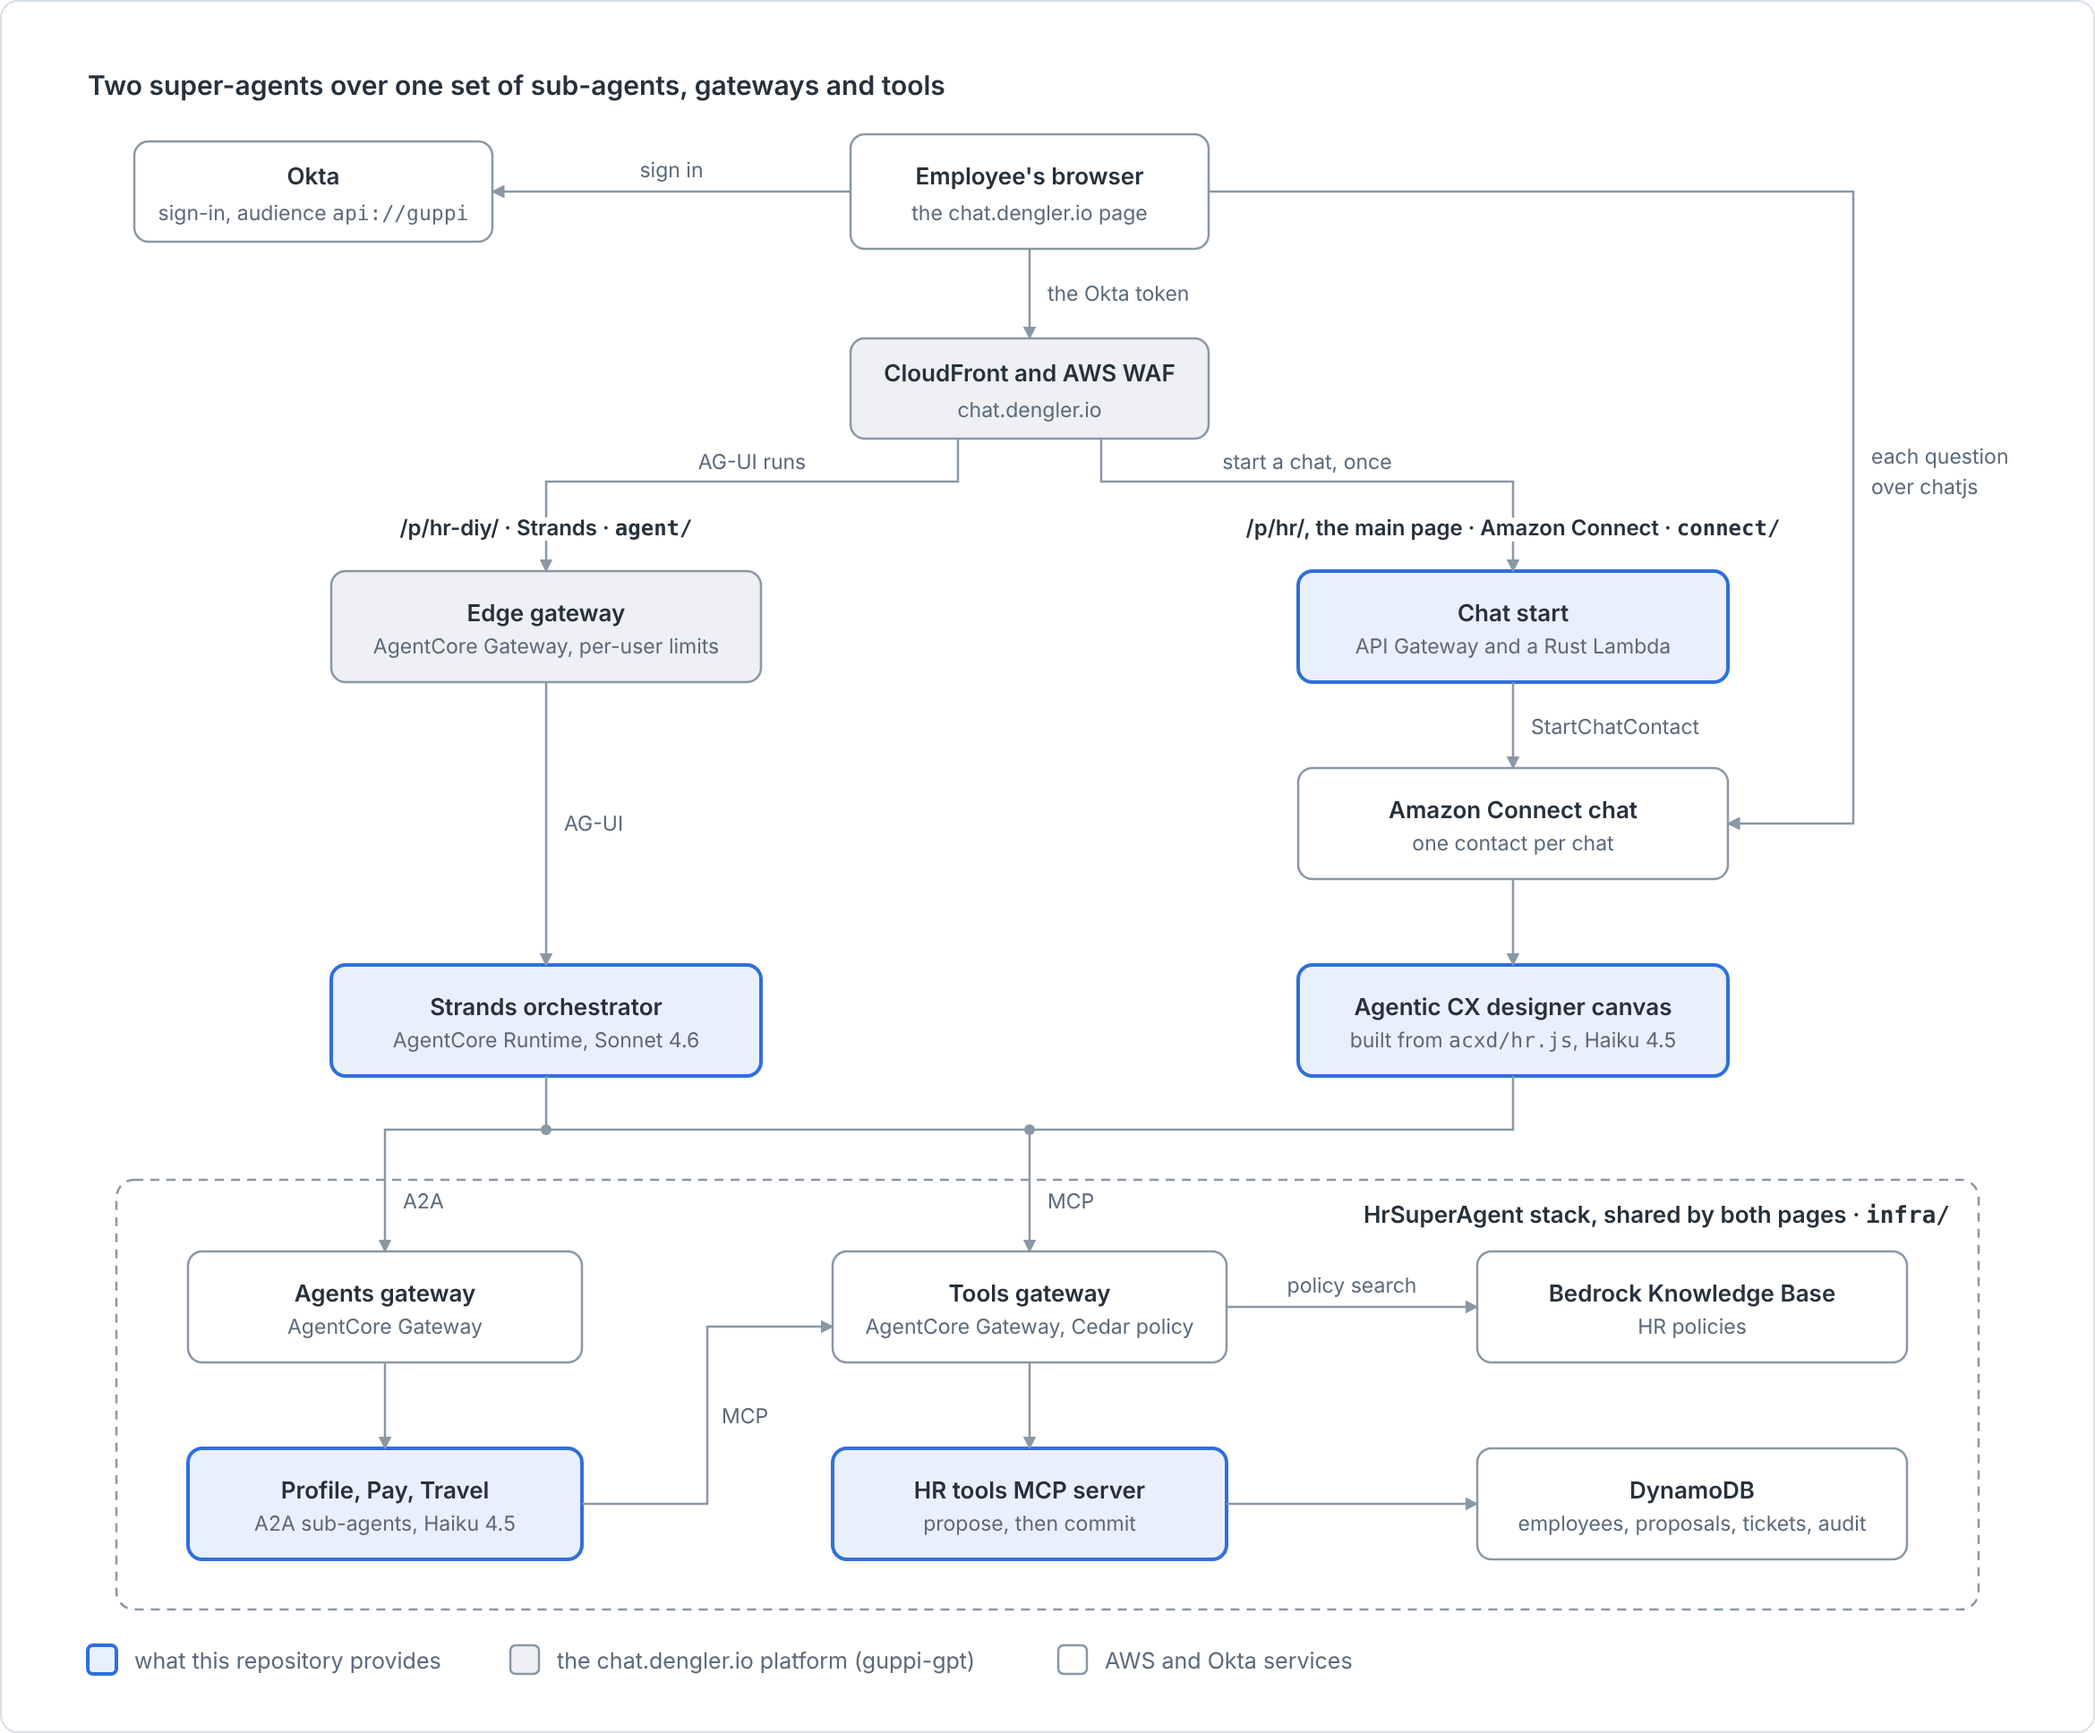
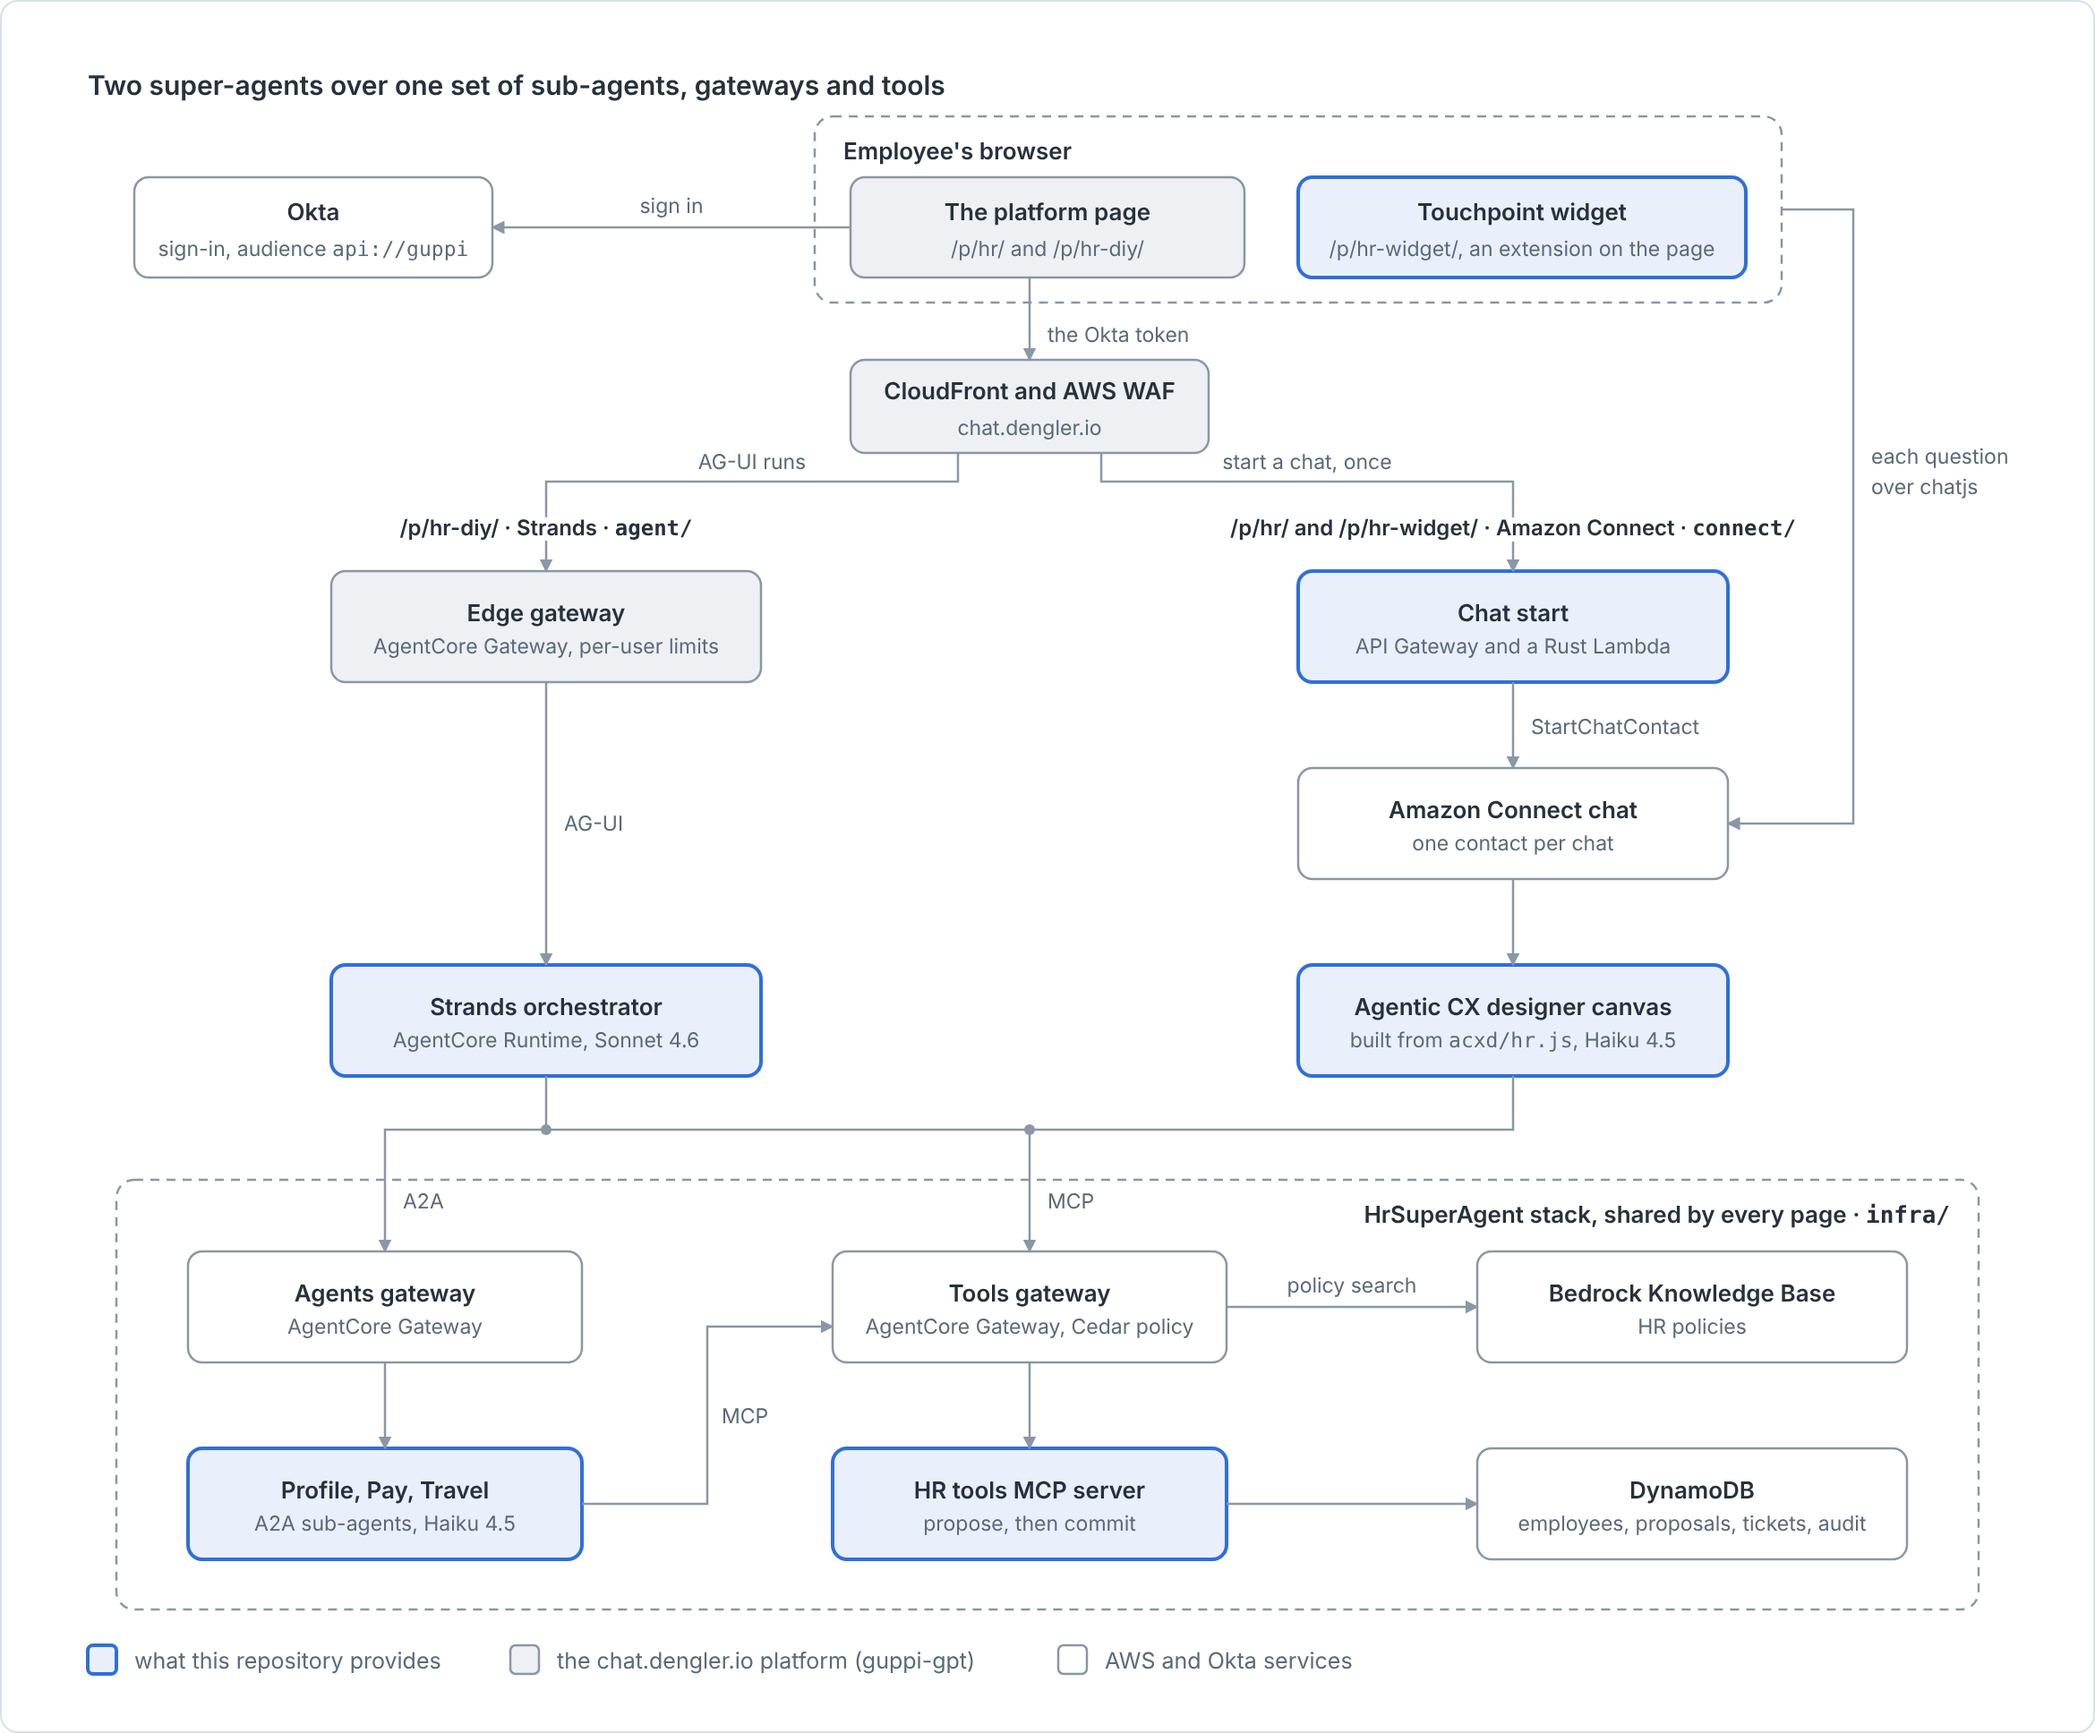
README figures: the Touchpoint widget at /p/hr-widget/ (D62)
The architecture figure shows the browser's two front ends, the platform page and the
Touchpoint widget extension, with /p/hr-widget/ on the Connect side; the /p/hr/ figure
notes that the widget's details option takes the same chat start path.

Claude-Session: https://claude.ai/code/session_019NRfX6qbFJoswoJtgA9shf

diff --git a/docs/figures/diagrams.html b/docs/figures/diagrams.html
@@ -14,38 +14,43 @@ body { margin: 0; padding: 24px; background: #fff; color: #26313c;
 <body>
 
 <figure class="figure" id="architecture">
-<svg viewBox="0 0 1120 930" width="1120" role="img" aria-label="The page signs in with Okta and reaches either the Strands orchestrator on /p/hr-diy/ or the Connect designer canvas on /p/hr/; both call the same agents gateway and tools gateway in the HrSuperAgent stack" font-size="13" font-family="-apple-system, &quot;Segoe UI&quot;, Inter, system-ui, Helvetica, Arial, sans-serif">
+<svg viewBox="0 0 1120 930" width="1120" role="img" aria-label="The page signs in with Okta and reaches either the Strands orchestrator on /p/hr-diy/ or the Connect designer canvas on /p/hr/ and /p/hr-widget/; both call the same agents gateway and tools gateway in the HrSuperAgent stack" font-size="13" font-family="-apple-system, &quot;Segoe UI&quot;, Inter, system-ui, Helvetica, Arial, sans-serif">
   <defs><marker id="architecture-arrow" viewBox="0 0 10 10" refX="9" refY="5" markerWidth="6" markerHeight="6" orient="auto-start-reverse"><path d="M0 0L10 5L0 10z" fill="#8a97a5"/></marker></defs>
   <text x="24" y="34" font-size="15" font-weight="600" fill="#26313c">Two super-agents over one set of sub-agents, gateways and tools</text>
-  <rect x="50" y="60" width="200" height="56" rx="8" fill="none" stroke="#8a97a5" stroke-width="1.25"/>
-  <text x="150.0" y="84" text-anchor="middle" font-weight="600" fill="#26313c">Okta</text>
-  <text x="150.0" y="104" text-anchor="middle" font-size="11.5" fill="#5b6a7a">sign-in, audience <tspan font-family="ui-monospace, &quot;SF Mono&quot;, Consolas, monospace">api://guppi</tspan></text>
-  <rect x="450" y="56" width="200" height="64" rx="8" fill="none" stroke="#8a97a5" stroke-width="1.25"/>
-  <text x="550.0" y="84" text-anchor="middle" font-weight="600" fill="#26313c">Employee's browser</text>
-  <text x="550.0" y="104" text-anchor="middle" font-size="11.5" fill="#5b6a7a">the chat.dengler.io page</text>
-  <path d="M450 88 L250 88" fill="none" stroke="#8a97a5" stroke-width="1.25" marker-end="url(#architecture-arrow)"/>
-  <text x="350" y="80" text-anchor="middle" font-size="11.5" fill="#5b6a7a">sign in</text>
-  <rect x="450" y="170" width="200" height="56" rx="8" fill="#eef0f3" stroke="#8a97a5" stroke-width="1.25"/>
-  <text x="550.0" y="194" text-anchor="middle" font-weight="600" fill="#26313c">CloudFront and AWS WAF</text>
-  <text x="550.0" y="214" text-anchor="middle" font-size="11.5" fill="#5b6a7a">chat.dengler.io</text>
-  <path d="M550 120 L550 170" fill="none" stroke="#8a97a5" stroke-width="1.25" marker-end="url(#architecture-arrow)"/>
-  <text x="560" y="149" text-anchor="start" font-size="11.5" fill="#5b6a7a">the Okta token</text>
+  <rect x="50" y="80" width="200" height="56" rx="8" fill="none" stroke="#8a97a5" stroke-width="1.25"/>
+  <text x="150.0" y="104" text-anchor="middle" font-weight="600" fill="#26313c">Okta</text>
+  <text x="150.0" y="124" text-anchor="middle" font-size="11.5" fill="#5b6a7a">sign-in, audience <tspan font-family="ui-monospace, &quot;SF Mono&quot;, Consolas, monospace">api://guppi</tspan></text>
+  <rect x="430" y="46" width="540" height="104" rx="10" fill="none" stroke="#8a97a5" stroke-width="1.25" stroke-dasharray="5 4"/>
+  <text x="446" y="70" text-anchor="start" font-weight="600" fill="#26313c">Employee's browser</text>
+  <rect x="450" y="80" width="220" height="56" rx="8" fill="#eef0f3" stroke="#8a97a5" stroke-width="1.25"/>
+  <text x="560.0" y="104" text-anchor="middle" font-weight="600" fill="#26313c">The platform page</text>
+  <text x="560.0" y="124" text-anchor="middle" font-size="11.5" fill="#5b6a7a">/p/hr/ and /p/hr-diy/</text>
+  <rect x="700" y="80" width="250" height="56" rx="8" fill="#2f6fdb" fill-opacity="0.1" stroke="#2f6fdb" stroke-width="2"/>
+  <text x="825.0" y="104" text-anchor="middle" font-weight="600" fill="#26313c">Touchpoint widget</text>
+  <text x="825.0" y="124" text-anchor="middle" font-size="11.5" fill="#5b6a7a">/p/hr-widget/, an extension on the page</text>
+  <path d="M450 108 L250 108" fill="none" stroke="#8a97a5" stroke-width="1.25" marker-end="url(#architecture-arrow)"/>
+  <text x="350" y="100" text-anchor="middle" font-size="11.5" fill="#5b6a7a">sign in</text>
+  <rect x="450" y="182" width="200" height="52" rx="8" fill="#eef0f3" stroke="#8a97a5" stroke-width="1.25"/>
+  <text x="550.0" y="204" text-anchor="middle" font-weight="600" fill="#26313c">CloudFront and AWS WAF</text>
+  <text x="550.0" y="224" text-anchor="middle" font-size="11.5" fill="#5b6a7a">chat.dengler.io</text>
+  <path d="M550 136 L550 182" fill="none" stroke="#8a97a5" stroke-width="1.25" marker-end="url(#architecture-arrow)"/>
+  <text x="560" y="172" text-anchor="start" font-size="11.5" fill="#5b6a7a">the Okta token</text>
   <rect x="160" y="300" width="240" height="62" rx="8" fill="#eef0f3" stroke="#8a97a5" stroke-width="1.25"/>
   <text x="280.0" y="328" text-anchor="middle" font-weight="600" fill="#26313c">Edge gateway</text>
   <text x="280.0" y="346" text-anchor="middle" font-size="11.5" fill="#5b6a7a">AgentCore Gateway, per-user limits</text>
   <rect x="700" y="300" width="240" height="62" rx="8" fill="#2f6fdb" fill-opacity="0.1" stroke="#2f6fdb" stroke-width="2"/>
   <text x="820.0" y="328" text-anchor="middle" font-weight="600" fill="#26313c">Chat start</text>
   <text x="820.0" y="346" text-anchor="middle" font-size="11.5" fill="#5b6a7a">API Gateway and a Rust Lambda</text>
-  <path d="M510 226 L510 250 L280 250 L280 300" fill="none" stroke="#8a97a5" stroke-width="1.25" marker-end="url(#architecture-arrow)"/>
+  <path d="M510 234 L510 250 L280 250 L280 300" fill="none" stroke="#8a97a5" stroke-width="1.25" marker-end="url(#architecture-arrow)"/>
   <text x="395" y="243" text-anchor="middle" font-size="11.5" fill="#5b6a7a">AG-UI runs</text>
-  <path d="M590 226 L590 250 L820 250 L820 300" fill="none" stroke="#8a97a5" stroke-width="1.25" marker-end="url(#architecture-arrow)"/>
+  <path d="M590 234 L590 250 L820 250 L820 300" fill="none" stroke="#8a97a5" stroke-width="1.25" marker-end="url(#architecture-arrow)"/>
   <text x="705" y="243" text-anchor="middle" font-size="11.5" fill="#5b6a7a">start a chat, once</text>
   <rect x="700" y="410" width="240" height="62" rx="8" fill="none" stroke="#8a97a5" stroke-width="1.25"/>
   <text x="820.0" y="438" text-anchor="middle" font-weight="600" fill="#26313c">Amazon Connect chat</text>
   <text x="820.0" y="456" text-anchor="middle" font-size="11.5" fill="#5b6a7a">one contact per chat</text>
   <path d="M820 362 L820 410" fill="none" stroke="#8a97a5" stroke-width="1.25" marker-end="url(#architecture-arrow)"/>
   <text x="830" y="391" text-anchor="start" font-size="11.5" fill="#5b6a7a">StartChatContact</text>
-  <path d="M650 88 L1010 88 L1010 441 L940 441" fill="none" stroke="#8a97a5" stroke-width="1.25" marker-end="url(#architecture-arrow)"/>
+  <path d="M970 98 L1010 98 L1010 441 L940 441" fill="none" stroke="#8a97a5" stroke-width="1.25" marker-end="url(#architecture-arrow)"/>
   <text x="1020" y="240" text-anchor="start" font-size="11.5" fill="#5b6a7a">each question</text>
   <text x="1020" y="257" text-anchor="start" font-size="11.5" fill="#5b6a7a">over chatjs</text>
   <rect x="160" y="520" width="240" height="62" rx="8" fill="#2f6fdb" fill-opacity="0.1" stroke="#2f6fdb" stroke-width="2"/>
@@ -65,7 +70,7 @@ body { margin: 0; padding: 24px; background: #fff; color: #26313c;
   <text x="200" y="656" text-anchor="start" font-size="11.5" fill="#5b6a7a">A2A</text>
   <text x="560" y="656" text-anchor="start" font-size="11.5" fill="#5b6a7a">MCP</text>
   <rect x="40" y="640" width="1040" height="240" rx="10" fill="none" stroke="#8a97a5" stroke-width="1.25" stroke-dasharray="5 4"/>
-  <text x="1064" y="664" text-anchor="end" font-weight="600" fill="#26313c">HrSuperAgent stack, shared by both pages · <tspan font-family="ui-monospace, &quot;SF Mono&quot;, Consolas, monospace">infra/</tspan></text>
+  <text x="1064" y="664" text-anchor="end" font-weight="600" fill="#26313c">HrSuperAgent stack, shared by every page · <tspan font-family="ui-monospace, &quot;SF Mono&quot;, Consolas, monospace">infra/</tspan></text>
   <rect x="80" y="680" width="220" height="62" rx="8" fill="none" stroke="#8a97a5" stroke-width="1.25"/>
   <text x="190.0" y="708" text-anchor="middle" font-weight="600" fill="#26313c">Agents gateway</text>
   <text x="190.0" y="726" text-anchor="middle" font-size="11.5" fill="#5b6a7a">AgentCore Gateway</text>
@@ -98,7 +103,7 @@ body { margin: 0; padding: 24px; background: #fff; color: #26313c;
   <rect x="566" y="900" width="16" height="16" rx="3" fill="none" stroke="#8a97a5" stroke-width="1.25"/>
   <text x="592" y="913" text-anchor="start" font-size="12.5" fill="#5b6a7a">AWS and Okta services</text>
   <text x="280" y="280" text-anchor="middle" font-size="12" font-weight="600" stroke="#fff" stroke-width="7" stroke-linejoin="round" paint-order="stroke" fill="#26313c">/p/hr-diy/ · Strands · <tspan font-family="ui-monospace, &quot;SF Mono&quot;, Consolas, monospace">agent/</tspan></text>
-  <text x="820" y="280" text-anchor="middle" font-size="12" font-weight="600" stroke="#fff" stroke-width="7" stroke-linejoin="round" paint-order="stroke" fill="#26313c">/p/hr/, the main page · Amazon Connect · <tspan font-family="ui-monospace, &quot;SF Mono&quot;, Consolas, monospace">connect/</tspan></text>
+  <text x="820" y="280" text-anchor="middle" font-size="12" font-weight="600" stroke="#fff" stroke-width="7" stroke-linejoin="round" paint-order="stroke" fill="#26313c">/p/hr/ and /p/hr-widget/ · Amazon Connect · <tspan font-family="ui-monospace, &quot;SF Mono&quot;, Consolas, monospace">connect/</tspan></text>
 </svg>
 </figure>
 
@@ -231,6 +236,8 @@ body { margin: 0; padding: 24px; background: #fff; color: #26313c;
   <path d="M100 300 L100 458 L230 458" fill="none" stroke="#8a97a5" stroke-width="1.25" stroke-dasharray="5 4" marker-end="url(#connect-arrow)"/>
   <path d="M440 458 L565 458 L565 306" fill="none" stroke="#8a97a5" stroke-width="1.25" stroke-dasharray="5 4" marker-end="url(#connect-arrow)"/>
   <text x="110" y="516" text-anchor="start" font-size="11.5" fill="#5b6a7a">the fallback, through the edge gateway with <tspan font-family="ui-monospace, &quot;SF Mono&quot;, Consolas, monospace">?ff=connect-bridge</tspan></text>
+  <text x="1180" y="470" text-anchor="end" font-size="11.5" fill="#5b6a7a">The Touchpoint widget on /p/hr-widget/ takes the same path:</text>
+  <text x="1180" y="487" text-anchor="end" font-size="11.5" fill="#5b6a7a">its <tspan font-family="ui-monospace, &quot;SF Mono&quot;, Consolas, monospace">details</tspan> option calls chat start with the Okta token.</text>
   <rect x="24" y="548" width="16" height="16" rx="3" fill="#2f6fdb" fill-opacity="0.1" stroke="#2f6fdb" stroke-width="2"/>
   <text x="50" y="561" text-anchor="start" font-size="12.5" fill="#5b6a7a">what this repository provides</text>
   <rect x="260" y="548" width="16" height="16" rx="3" fill="#eef0f3" stroke="#8a97a5" stroke-width="1.25"/>

diff --git a/README.md b/README.md
@@ -24,14 +24,15 @@ guppi-connect moved in as `connect/`.
 
 ## Architecture
 
-![The page signs in with Okta and reaches either the Strands orchestrator on /p/hr-diy/ or the Connect designer canvas on /p/hr/; both call the same agents gateway and tools gateway in the HrSuperAgent stack](docs/figures/hr-architecture.png)
+![The page signs in with Okta and reaches either the Strands orchestrator on /p/hr-diy/ or the Connect designer canvas on /p/hr/ and /p/hr-widget/; both call the same agents gateway and tools gateway in the HrSuperAgent stack](docs/figures/hr-architecture.png)
 
 Both pages run the same four scenarios over the same sub-agents, gateways and tools, so the
 two super-agents can be compared turn by turn. Every hop carries a token that names the
 employee: AgentCore Identity exchanges the Okta token for a hop token at each step (RFC 8693,
 D47), and the tools gateway's Cedar policy decides each tool call on the token's scopes. On
 `/p/hr/` the chat start function makes the first exchanges and starts the Connect contact;
-the page then sends each question to Connect itself. An AG-UI bridge runtime on the edge
+the page then sends each question to Connect itself. AWS's Touchpoint widget at `/p/hr-widget/`, on a stand-in HR
+portal page, takes the same path (D62). An AG-UI bridge runtime on the edge
 gateway (`?ff=connect-bridge`) is the fallback path. The sign-in to first answer sequence is
 in [`docs/hr-page-sequence.md`](docs/hr-page-sequence.md). The sub-agent and tools runtimes
 run on AgentCore Runtime V2; [`docs/handoff-runtime-v2.md`](docs/handoff-runtime-v2.md) has
